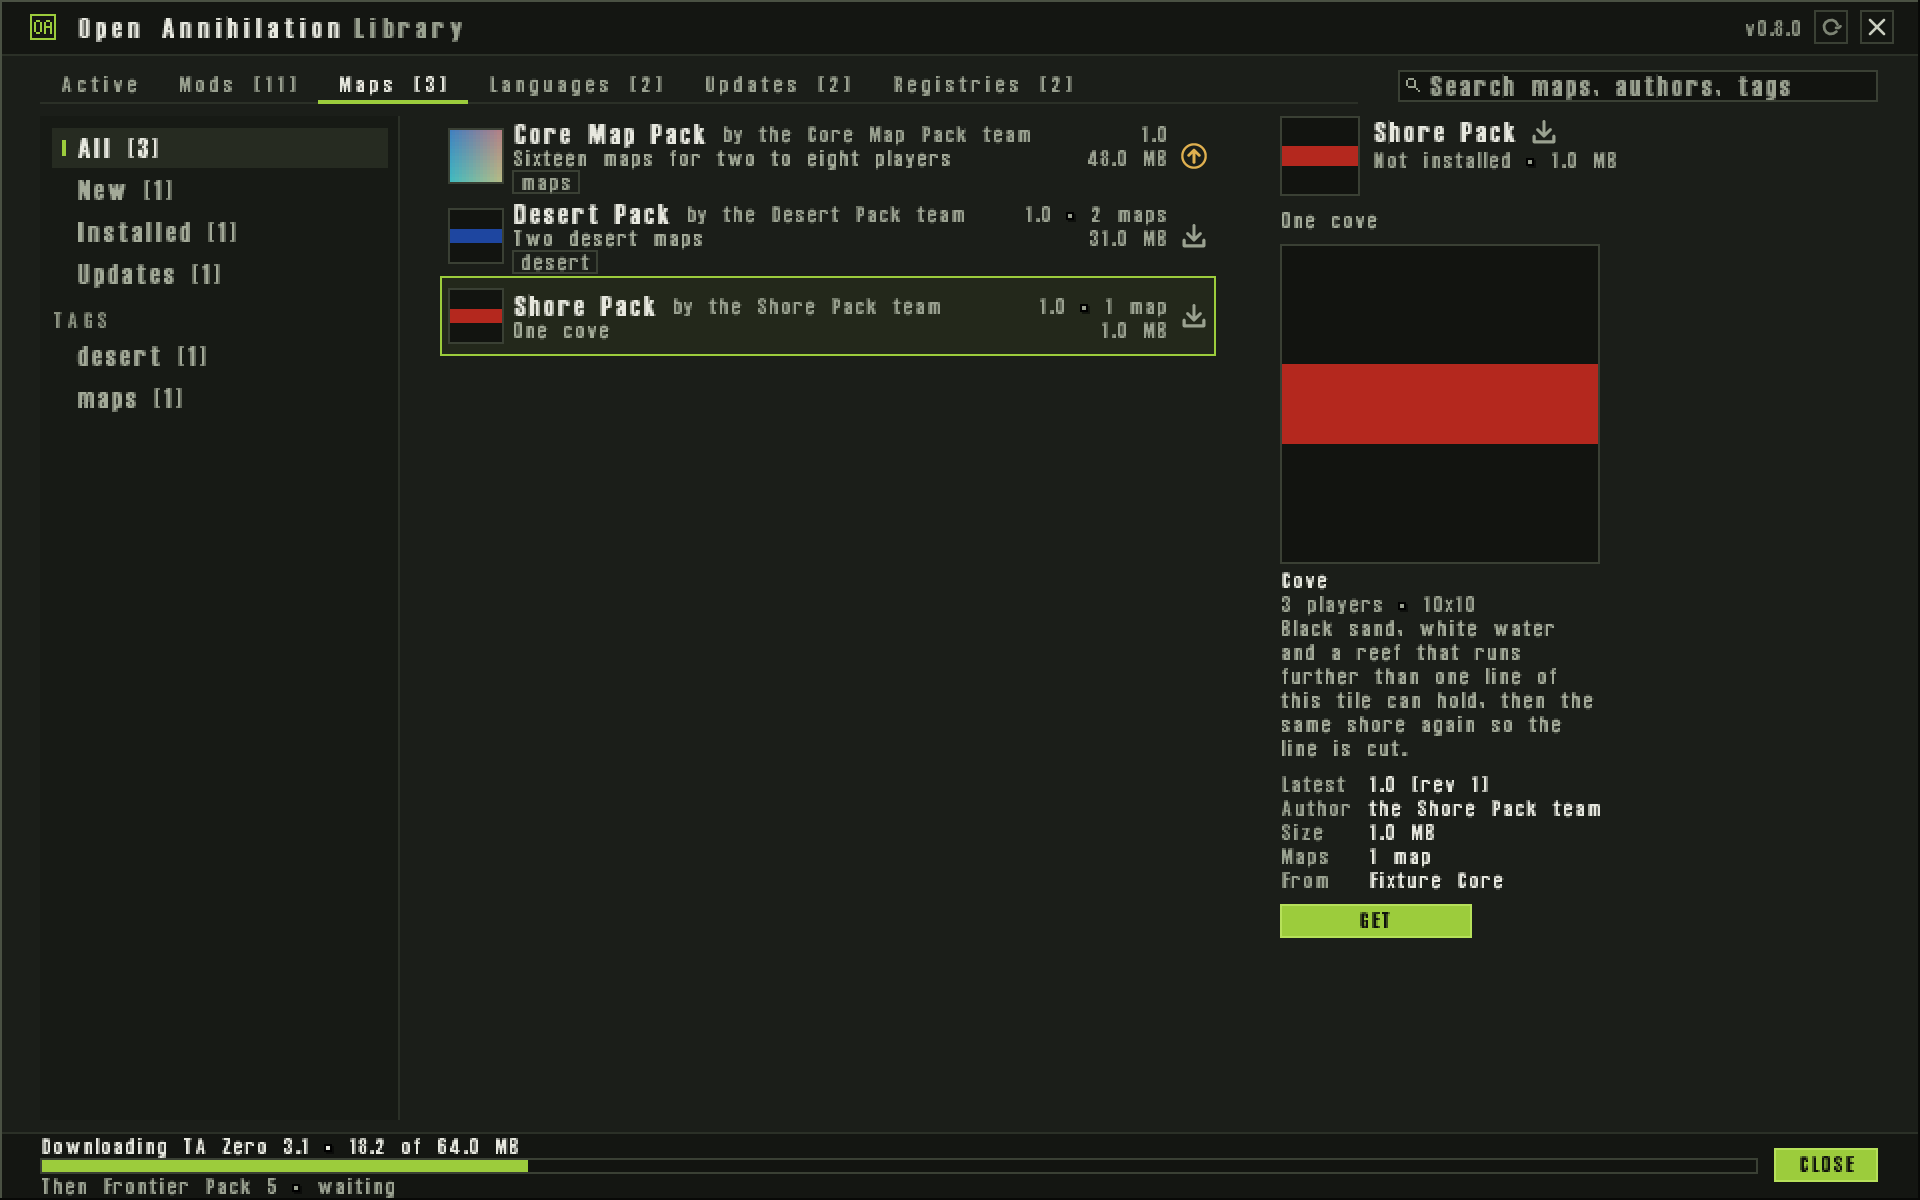
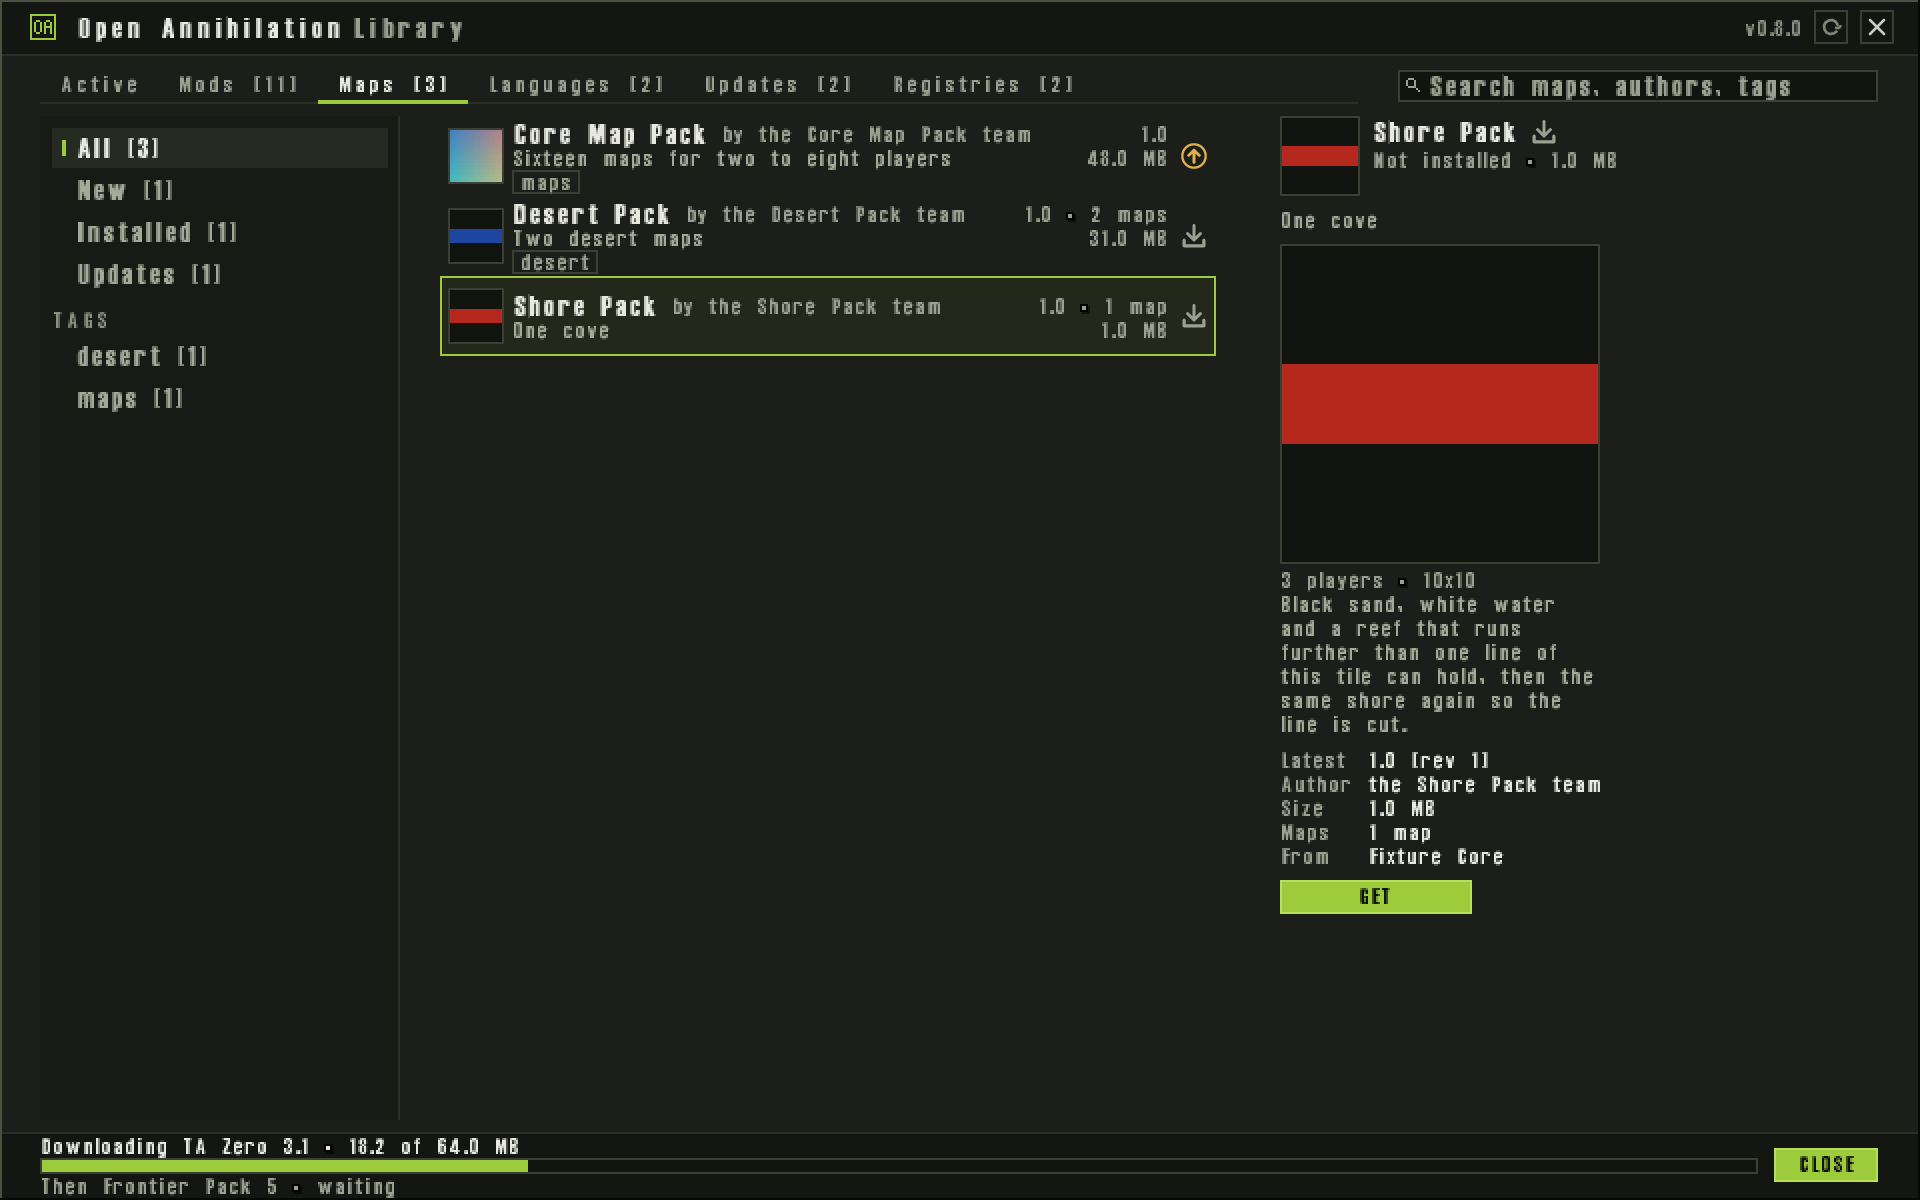
(fix) Leave a one-map pack's map name out under its picture in the Library details
The details of a map pack that holds one map showed the pack's title at the top and the map's name again under its picture. The players and size line now comes straight under the picture; a pack of several maps keeps each map's name in its grid.

Changed region(s): [[0.6562, 0.4625, 0.8438, 0.8017]]

diff --git a/src/ui/library/tests/layout_test.cpp b/src/ui/library/tests/layout_test.cpp
@@ -3060,8 +3060,10 @@ widest_picture(const kit::DisplayList& list, uint8_t red, uint8_t green, uint8_t
 
 /// A one-map pack wears its minimap, fitted, on Maps and on Updates. A pack
 /// of several keeps its badge, or the first map's minimap on the Maps tab
-/// when it has none. The details show one large picture or a grid. A
-/// minimap that has not arrived yet keeps the row's letters, then the picture.
+/// when it has none. The details show one large picture or a grid: under one
+/// map's picture its players and size come first, with no name, and under
+/// each map of several its name and then those lines. A minimap that has not
+/// arrived yet keeps the row's letters, then the picture.
 void map_previews_fit_their_boxes() {
     const lib::MapPicture red = solid_minimap(255, 0, 0);
     const lib::MapPicture blue = solid_minimap(0, 0, 255);
@@ -3202,9 +3204,14 @@ void map_previews_fit_their_boxes() {
             ++header_squares;
     }
     OA_CHECK(header_squares == 1);
-    OA_CHECK(text_item(one, "Cove") != nullptr);
-    OA_CHECK(text_item(one, "3 players · 10x10") != nullptr);
-    OA_CHECK(text_item(one, "A long cove.") != nullptr);
+    OA_CHECK(text_item(one, "Shore Pack") != nullptr);
+    OA_CHECK(text_item(one, "Cove") == nullptr);
+    const kit::Item* one_meta = text_item(one, "3 players · 10x10");
+    OA_CHECK(one_meta != nullptr);
+    const kit::Item* one_description = text_item(one, "A long cove.");
+    OA_CHECK(one_description != nullptr);
+    if (one_meta != nullptr && one_description != nullptr)
+        OA_CHECK(one_meta->rect.y < one_description->rect.y);
 
     lib::select(library, {std::string(fixture::added), lib::Kind::map_pack, "desert-pack"});
     const kit::DisplayList grid = laid_out(library, {}, large);
@@ -3234,10 +3241,32 @@ void map_previews_fit_their_boxes() {
     }
     OA_CHECK(cells == 2);
     OA_CHECK(saw_blue && saw_green);
-    OA_CHECK(text_item(grid, "Dry Lake") != nullptr);
+    const kit::Item* dry_lake = text_item(grid, "Dry Lake");
+    const kit::Item* dry_lake_meta = text_item(grid, "2 players · 8x8");
+    OA_CHECK(dry_lake != nullptr);
     OA_CHECK(text_item(grid, "Mesa") != nullptr);
-    OA_CHECK(text_item(grid, "2 players · 8x8") != nullptr);
+    OA_CHECK(dry_lake_meta != nullptr);
     OA_CHECK(text_item(grid, "4 players · 16x16") != nullptr);
+    if (dry_lake != nullptr && dry_lake_meta != nullptr)
+        OA_CHECK(dry_lake->rect.y < dry_lake_meta->rect.y);
+    const kit::Item* dry_lake_cell = nullptr;
+    if (dry_lake != nullptr) {
+        for (const kit::Item& item : grid.items) {
+            if (item.role == kit::Role::picture && item.rect.width == 72 &&
+                item.rect.height == 72 && item.rect.x == dry_lake->rect.x) {
+                dry_lake_cell = &item;
+                break;
+            }
+        }
+    }
+    OA_CHECK(dry_lake_cell != nullptr);
+    // One map's players and size take the place a map's name has in a grid.
+    if (dry_lake != nullptr && dry_lake_cell != nullptr && one_meta != nullptr &&
+        one_large != nullptr)
+        OA_CHECK(
+            one_meta->rect.y - (one_large->rect.y + one_large->rect.height) ==
+            dry_lake->rect.y - (dry_lake_cell->rect.y + dry_lake_cell->rect.height)
+        );
     OA_CHECK(text_item(grid, "Dry and flat.") != nullptr);
     OA_CHECK(text_item(grid, "A table of stone.") != nullptr);
     OA_CHECK(text_item(grid, "DP") != nullptr);

diff --git a/src/ui/library/src/layout.cpp b/src/ui/library/src/layout.cpp
@@ -2145,7 +2145,9 @@ int32_t add_lines(
 );
 
 /// Appends a map pack's previews: one large picture for one map, a grid for
-/// several, each with its name, players, size and description.
+/// several, each with its players, size and description. Each map of several
+/// has its name over those lines; one map leaves its name out, as the pack's
+/// title already heads the details.
 ///
 /// @param[in,out] building the layout
 /// @param entry the entry
@@ -2184,7 +2186,7 @@ int32_t add_map_previews(
         std::vector<std::vector<std::string>> descriptions(row_count);
         for (std::size_t place = 0; place < row_count; ++place) {
             const ShownMap& map = maps[index + place];
-            int32_t lines = metrics.small_line;
+            int32_t lines = one ? int32_t{0} : metrics.small_line;
             if (!map.size.empty() || map.players > 0)
                 lines += metrics.small_line;
             if (!map.description.empty()) {
@@ -2204,19 +2206,21 @@ int32_t add_map_previews(
             const int32_t column = left + static_cast<int32_t>(place) * (across + gap);
             add_fitted_preview(building, map.preview, {column, row_top, across, across}, clip);
             int32_t text_top = row_top + across + metrics.hint_gap;
-            const std::string title = cut(building, kit::FontRole::small, map.name, across);
-            if (!title.empty() && width_of(building, kit::FontRole::small, title) <= across) {
-                add_text(
-                    building,
-                    kit::FontRole::small,
-                    title,
-                    {column, text_top, across, metrics.small_line},
-                    kit::Align::left,
-                    kit::colour::text,
-                    clip
-                );
+            if (!one) {
+                const std::string title = cut(building, kit::FontRole::small, map.name, across);
+                if (!title.empty() && width_of(building, kit::FontRole::small, title) <= across) {
+                    add_text(
+                        building,
+                        kit::FontRole::small,
+                        title,
+                        {column, text_top, across, metrics.small_line},
+                        kit::Align::left,
+                        kit::colour::text,
+                        clip
+                    );
+                }
+                text_top += metrics.small_line;
             }
-            text_top += metrics.small_line;
             if (!map.size.empty() || map.players > 0) {
                 const std::string meta = players_and_size(building, map.players, map.size);
                 const std::string meta_drawn = cut(building, kit::FontRole::small, meta, across);

diff --git a/docs/library.md b/docs/library.md
@@ -379,9 +379,11 @@ back button follow whichever of those is showing.
 - **The map previews**, for a map pack: one large picture when the pack
   holds one map, and a grid of pictures when it holds several. Each
   picture is that map's minimap, fitted the same way as the row, and under
-  it the map's name, how many players it is for, its size and its
-  description. The picture is there before you download the pack and after.
-  ![Maps, one map: the row's minimap, and a larger one in the details with the map's name, players, size and description.](images/library/library-maps-one-large.png)
+  it how many players the map is for, its size and its description. In a
+  grid each map's name comes first; under a one-map pack's picture the name
+  is left out, as the pack's title heads the details. The picture is there
+  before you download the pack and after.
+  ![Maps, one map: the row's minimap, and a larger one in the details with the map's players, size and description.](images/library/library-maps-one-large.png)
   ![Maps, several maps and no pack badge: the first map's minimap on the row, and a grid of each map in the details.](images/library/library-maps-several-large.png)
 - **The facts**:
   - **Installed**, the version you have and its packaging revision, "4.8

diff --git a/src/ui/library/README.md b/src/ui/library/README.md
@@ -696,8 +696,9 @@ order while disabled); that a one-map pack's row and details wear that
 map's minimap, fitted to the square with the well colour in the
 letterbox, that a several-map pack keeps its badge, that a several-map
 pack with no badge shows the first map's minimap on the Maps tab and its
-letters on Updates, that the details show one large picture or a grid
-with each map's name, players, size and description, that a minimap not
+letters on Updates, that the details show one large picture with its
+map's players, size and description and no name, or a grid with each
+map's name, players, size and description, that a minimap not
 yet decoded is a placeholder and then the picture, and that a one-map pack's title is the link to its pack with no From line while a pack of several keeps its From line, and that the link
 opens Maps with that pack selected and its row in view; that the Registries tab lists each registry on a card, its heading the
 title, its switch, key icon and REFRESH, its address, refresh time and
